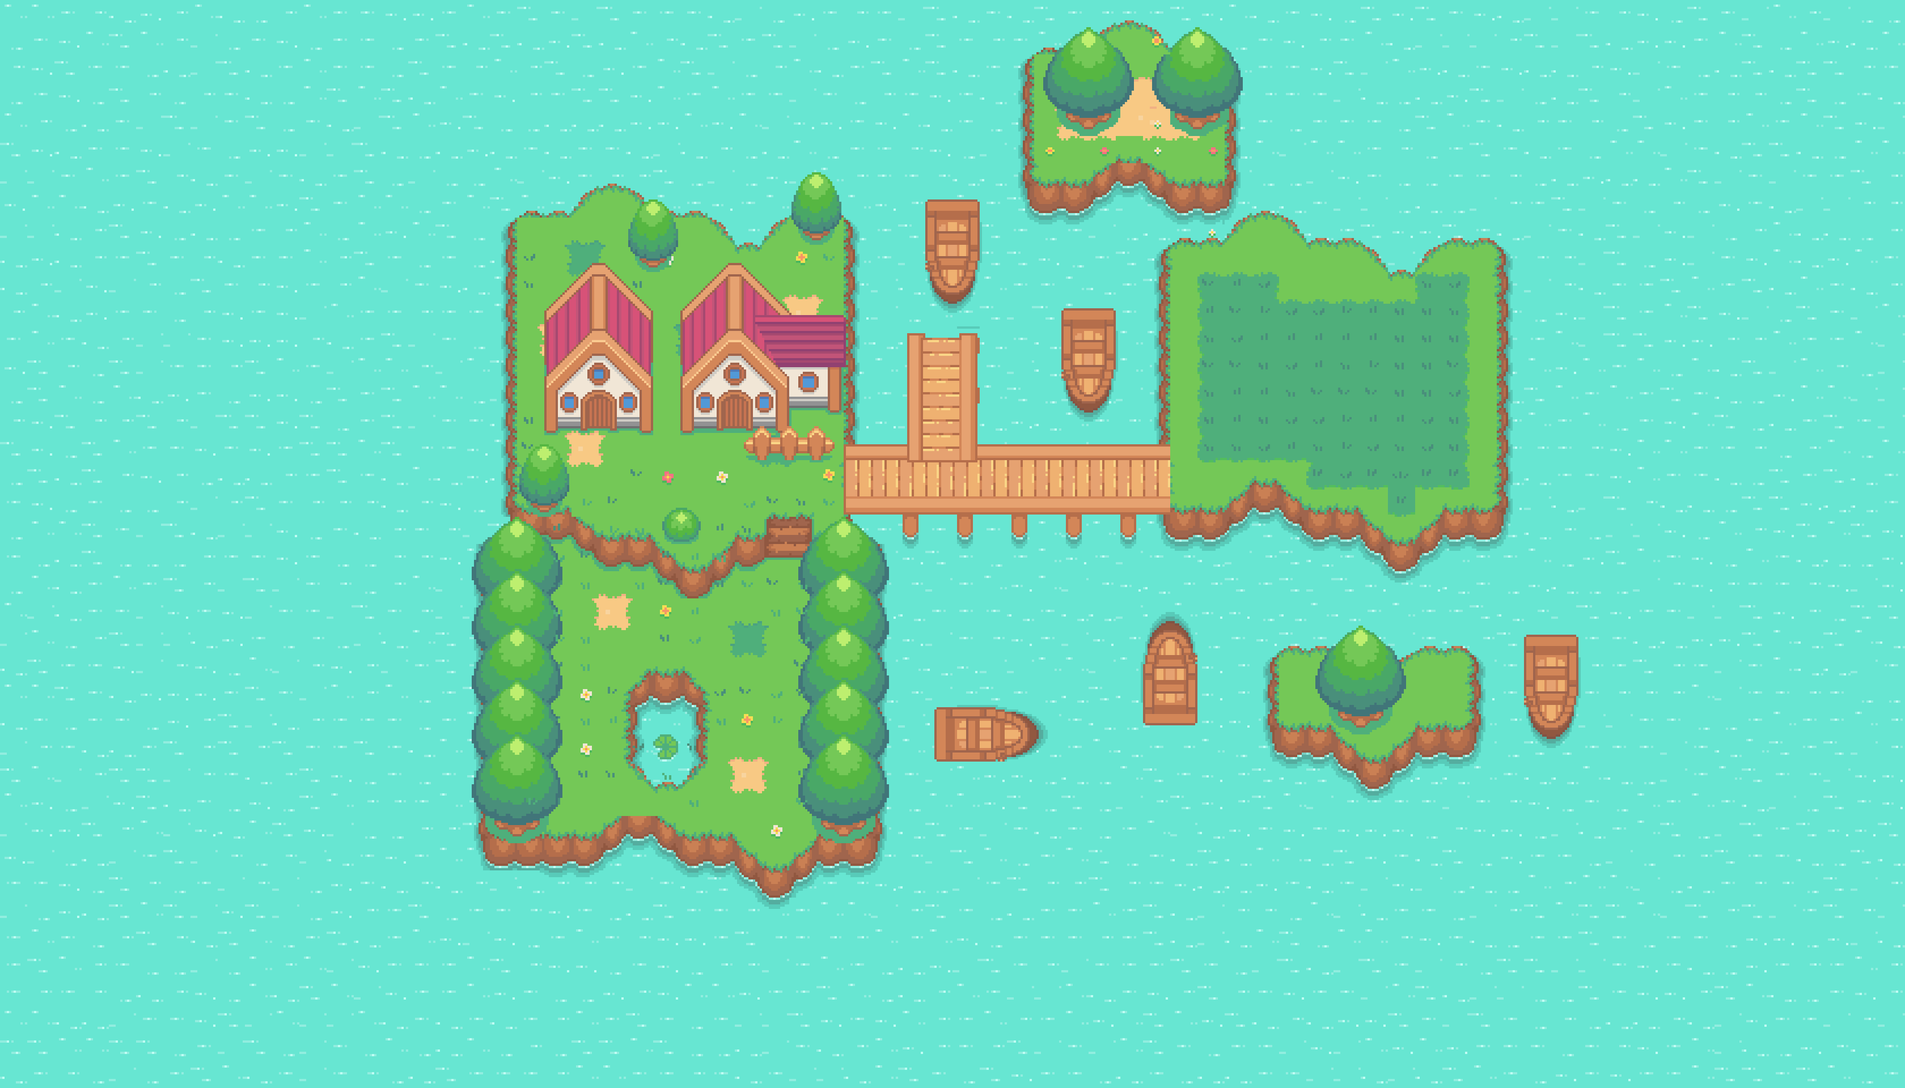
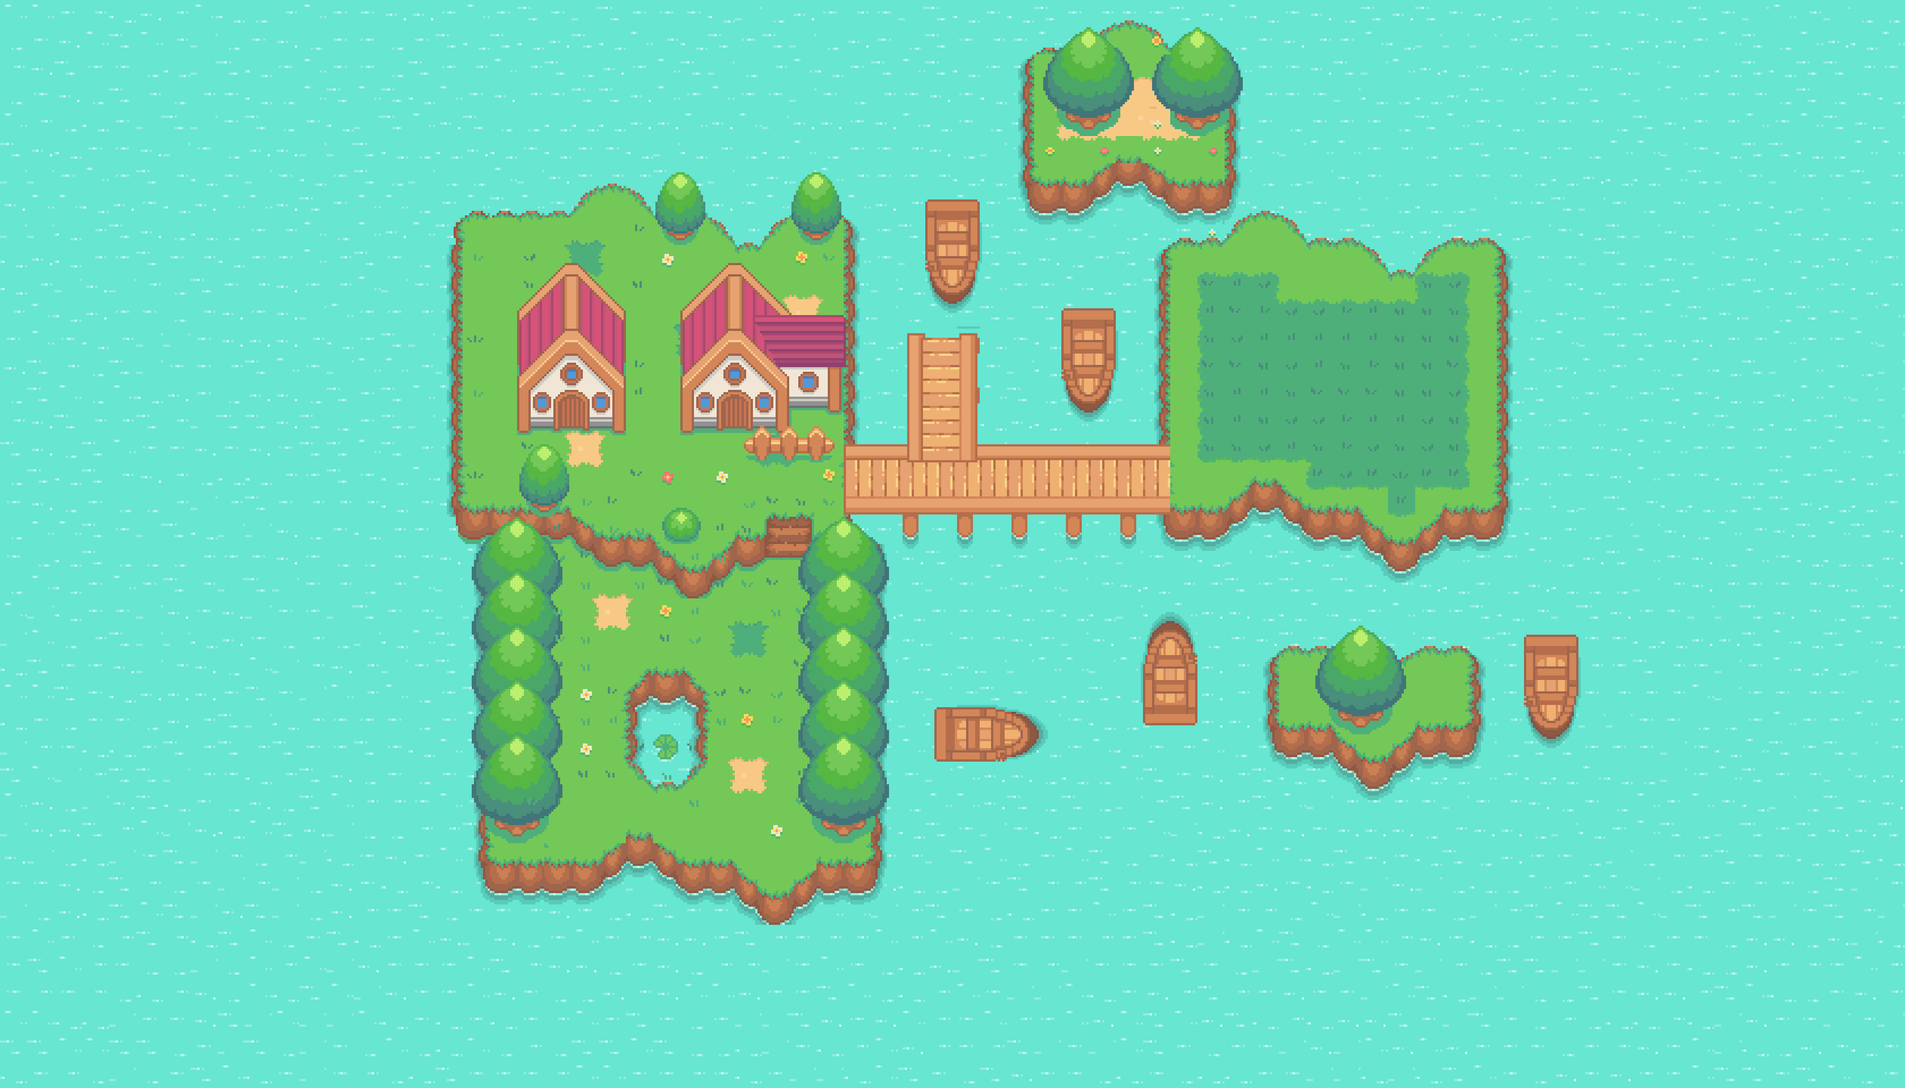
entrega3

Changed region(s): [[0.2188, 0.1562, 0.375, 0.5], [0.25, 0.75, 0.4688, 0.8438]]

diff --git a/data/collision.js b/data/collision.js
@@ -4,20 +4,20 @@ const collisions = [0, 0, 0, 0, 0, 0, 0, 0, 0, 0, 0, 0, 0, 0, 0, 0, 0, 0, 0, 0, 
     0, 0, 0, 0, 0, 0, 0, 0, 0, 0, 0, 0, 0, 0, 0, 0, 0, 0, 0, 0, 0, 0, 0, 0, 0, 0, 0, 0, 0, 0, 0, 0, 0, 0, 0, 0, 0, 1025, 1025, 1025, 1025, 1025, 1025, 1025, 1025, 1025, 0, 0, 0, 0, 0, 0, 0, 0, 0, 0, 0, 0, 0, 0, 0, 0, 0, 0, 0, 0, 0, 0, 0, 0,
     0, 0, 0, 0, 0, 0, 0, 0, 0, 0, 0, 0, 0, 0, 0, 0, 0, 0, 0, 0, 0, 0, 0, 0, 0, 0, 0, 0, 0, 0, 0, 0, 0, 0, 0, 0, 0, 1025, 0, 1025, 1025, 0, 0, 1025, 1025, 1025, 0, 0, 0, 0, 0, 0, 0, 0, 0, 0, 0, 0, 0, 0, 0, 0, 0, 0, 0, 0, 0, 0, 0, 0,
     0, 0, 0, 0, 0, 0, 0, 0, 0, 0, 0, 0, 0, 0, 0, 0, 0, 0, 0, 0, 0, 0, 0, 0, 0, 0, 0, 0, 0, 0, 0, 0, 0, 0, 0, 0, 0, 1025, 0, 0, 0, 0, 0, 0, 0, 1025, 0, 0, 0, 0, 0, 0, 0, 0, 0, 0, 0, 0, 0, 0, 0, 0, 0, 0, 0, 0, 0, 0, 0, 0,
-    0, 0, 0, 0, 0, 0, 0, 0, 0, 0, 0, 0, 0, 0, 0, 0, 0, 0, 0, 0, 0, 1025, 1025, 0, 0, 0, 0, 0, 0, 0, 0, 0, 0, 0, 0, 0, 0, 1025, 0, 0, 1025, 1025, 1025, 0, 0, 1025, 0, 0, 0, 0, 0, 0, 0, 0, 0, 0, 0, 0, 0, 0, 0, 0, 0, 0, 0, 0, 0, 0, 0, 0,
-    0, 0, 0, 0, 0, 0, 0, 0, 0, 0, 0, 0, 0, 0, 0, 0, 0, 0, 1025, 1025, 1025, 1025, 0, 1025, 1025, 1025, 0, 0, 1025, 0, 0, 0, 0, 0, 1025, 1025, 0, 1025, 1025, 1025, 1025, 0, 1025, 1025, 1025, 1025, 1025, 0, 0, 0, 0, 0, 0, 0, 0, 0, 0, 0, 0, 0, 0, 0, 0, 0, 0, 0, 0, 0, 0, 0,
-    0, 0, 0, 0, 0, 0, 0, 0, 0, 0, 0, 0, 0, 0, 0, 0, 0, 0, 1025, 0, 0, 0, 0, 0, 0, 0, 1025, 1025, 0, 1025, 1025, 1025, 0, 0, 1025, 1025, 0, 0, 0, 0, 0, 0, 0, 1025, 1025, 1025, 0, 1025, 1025, 1025, 0, 0, 0, 1025, 1025, 0, 0, 0, 0, 0, 0, 0, 0, 0, 0, 0, 0, 0, 0, 0,
-    0, 0, 0, 0, 0, 0, 0, 0, 0, 0, 0, 0, 0, 0, 0, 0, 0, 0, 1025, 0, 0, 0, 0, 1025, 1025, 0, 0, 0, 0, 0, 0, 1025, 0, 0, 1025, 1025, 0, 0, 0, 0, 0, 0, 1025, 0, 0, 0, 0, 0, 0, 0, 1025, 1025, 1025, 0, 0, 1025, 0, 0, 0, 0, 0, 0, 0, 0, 0, 0, 0, 0, 0, 0,
-    0, 0, 0, 0, 0, 0, 0, 0, 0, 0, 0, 0, 0, 0, 0, 0, 0, 0, 1025, 0, 0, 0, 0, 0, 0, 0, 0, 0, 0, 0, 0, 1025, 0, 0, 1025, 1025, 0, 0, 0, 0, 0, 0, 1025, 0, 0, 0, 0, 0, 0, 0, 0, 0, 0, 0, 0, 1025, 0, 0, 0, 0, 0, 0, 0, 0, 0, 0, 0, 0, 0, 0,
-    0, 0, 0, 0, 0, 0, 0, 0, 0, 0, 0, 0, 0, 0, 0, 0, 0, 0, 1025, 0, 1025, 1025, 1025, 1025, 0, 1025, 1025, 1025, 1025, 0, 0, 1025, 1025, 1025, 1025, 1025, 1025, 0, 0, 1025, 1025, 0, 1025, 0, 0, 0, 0, 0, 0, 0, 0, 0, 0, 0, 0, 1025, 0, 0, 0, 0, 0, 0, 0, 0, 0, 0, 0, 0, 0, 0,
-    0, 0, 0, 0, 0, 0, 0, 0, 0, 0, 0, 0, 0, 0, 0, 0, 0, 0, 1025, 0, 1025, 0, 0, 1025, 0, 1025, 0, 0, 1025, 1025, 1025, 1025, 1025, 0, 0, 0, 1025, 0, 0, 1025, 1025, 0, 1025, 0, 0, 0, 0, 0, 0, 0, 0, 0, 0, 0, 0, 1025, 0, 0, 0, 0, 0, 0, 0, 0, 0, 0, 0, 0, 0, 0,
-    0, 0, 0, 0, 0, 0, 0, 0, 0, 0, 0, 0, 0, 0, 0, 0, 0, 0, 1025, 0, 1025, 0, 0, 1025, 0, 1025, 0, 0, 0, 0, 1025, 1025, 1025, 0, 0, 0, 1025, 0, 0, 1025, 1025, 0, 1025, 0, 0, 0, 0, 0, 0, 0, 0, 0, 0, 0, 0, 1025, 0, 0, 0, 0, 0, 0, 0, 0, 0, 0, 0, 0, 0, 0,
-    0, 0, 0, 0, 0, 0, 0, 0, 0, 0, 0, 0, 0, 0, 0, 0, 0, 0, 1025, 0, 1025, 0, 0, 1025, 0, 1025, 0, 0, 1025, 1025, 1025, 1025, 1025, 0, 0, 0, 1025, 0, 0, 1025, 1025, 0, 1025, 0, 0, 0, 0, 0, 0, 0, 0, 0, 0, 0, 0, 1025, 0, 0, 0, 0, 0, 0, 0, 0, 0, 0, 0, 0, 0, 0,
-    0, 0, 0, 0, 0, 0, 0, 0, 0, 0, 0, 0, 0, 0, 0, 0, 0, 0, 1025, 0, 1025, 1025, 1025, 1025, 0, 1025, 1025, 1025, 1025, 0, 0, 1025, 1025, 0, 0, 0, 1025, 0, 0, 0, 0, 0, 1025, 0, 0, 0, 0, 0, 0, 0, 0, 0, 0, 0, 0, 1025, 0, 0, 0, 0, 0, 0, 0, 0, 0, 0, 0, 0, 0, 0,
-    0, 0, 0, 0, 0, 0, 0, 0, 0, 0, 0, 0, 0, 0, 0, 0, 0, 0, 1025, 0, 0, 0, 0, 0, 0, 0, 0, 1025, 1025, 1025, 1025, 1025, 1025, 0, 0, 0, 1025, 1025, 1025, 1025, 1025, 1025, 1025, 0, 0, 0, 0, 0, 0, 0, 0, 0, 0, 0, 0, 1025, 0, 0, 0, 0, 0, 0, 0, 0, 0, 0, 0, 0, 0, 0,
-    0, 0, 0, 0, 0, 0, 0, 0, 0, 0, 0, 0, 0, 0, 0, 0, 0, 0, 1025, 0, 0, 0, 0, 0, 0, 0, 0, 0, 0, 0, 0, 0, 0, 0, 0, 0, 0, 0, 0, 0, 0, 0, 0, 0, 0, 0, 0, 0, 0, 0, 0, 0, 0, 0, 0, 1025, 0, 0, 0, 0, 0, 0, 0, 0, 0, 0, 0, 0, 0, 0,
-    0, 0, 0, 0, 0, 0, 0, 0, 0, 0, 0, 0, 0, 0, 0, 0, 0, 0, 1025, 1025, 1025, 0, 0, 0, 0, 0, 0, 0, 0, 0, 0, 0, 0, 0, 0, 0, 0, 0, 0, 0, 0, 0, 0, 0, 0, 1025, 1025, 1025, 0, 0, 0, 0, 0, 0, 0, 1025, 0, 0, 0, 0, 0, 0, 0, 0, 0, 0, 0, 0, 0, 0,
-    0, 0, 0, 0, 0, 0, 0, 0, 0, 0, 0, 0, 0, 0, 0, 0, 0, 0, 0, 1025, 1025, 1025, 0, 0, 1025, 1025, 0, 0, 0, 0, 0, 1025, 1025, 1025, 1025, 1025, 1025, 1025, 1025, 1025, 1025, 1025, 1025, 1025, 1025, 0, 0, 0, 1025, 1025, 1025, 0, 1025, 1025, 1025, 1025, 0, 0, 0, 0, 0, 0, 0, 0, 0, 0, 0, 0, 0, 0,
+    0, 0, 0, 0, 0, 0, 0, 0, 0, 0, 0, 0, 0, 0, 0, 0, 0, 0, 0, 0, 0, 1025, 1025, 1025, 0, 0, 0, 0, 0, 0, 0, 0, 0, 0, 0, 0, 0, 1025, 0, 0, 1025, 1025, 1025, 0, 0, 1025, 0, 0, 0, 0, 0, 0, 0, 0, 0, 0, 0, 0, 0, 0, 0, 0, 0, 0, 0, 0, 0, 0, 0, 0,
+    0, 0, 0, 0, 0, 0, 0, 0, 0, 0, 0, 0, 0, 0, 0, 0, 0, 1025, 1025, 1025, 1025, 0, 0, 0, 1025, 1025, 1025, 0, 1025, 1025, 1025, 0, 0, 0, 1025, 1025, 0, 1025, 1025, 1025, 1025, 0, 1025, 1025, 1025, 1025, 1025, 0, 0, 0, 0, 0, 0, 0, 0, 0, 0, 0, 0, 0, 0, 0, 0, 0, 0, 0, 0, 0, 0, 0,
+    0, 0, 0, 0, 0, 0, 0, 0, 0, 0, 0, 0, 0, 0, 0, 0, 1025, 0, 0, 0, 0, 0, 0, 0, 0, 0, 0, 1025, 0, 0, 0, 1025, 0, 0, 1025, 1025, 0, 0, 0, 0, 0, 0, 0, 1025, 1025, 1025, 0, 1025, 1025, 1025, 0, 0, 0, 1025, 1025, 0, 0, 0, 0, 0, 0, 0, 0, 0, 0, 0, 0, 0, 0, 0,
+    0, 0, 0, 0, 0, 0, 0, 0, 0, 0, 0, 0, 0, 0, 0, 0, 1025, 0, 0, 0, 0, 0, 0, 0, 0, 0, 0, 0, 0, 0, 0, 1025, 0, 0, 1025, 1025, 0, 0, 0, 0, 0, 0, 1025, 0, 0, 0, 0, 0, 0, 0, 1025, 1025, 1025, 0, 0, 1025, 0, 0, 0, 0, 0, 0, 0, 0, 0, 0, 0, 0, 0, 0,
+    0, 0, 0, 0, 0, 0, 0, 0, 0, 0, 0, 0, 0, 0, 0, 0, 1025, 0, 0, 0, 0, 0, 0, 0, 0, 0, 0, 0, 0, 0, 0, 1025, 0, 0, 1025, 1025, 0, 0, 0, 0, 0, 0, 1025, 0, 0, 0, 0, 0, 0, 0, 0, 0, 0, 0, 0, 1025, 0, 0, 0, 0, 0, 0, 0, 0, 0, 0, 0, 0, 0, 0,
+    0, 0, 0, 0, 0, 0, 0, 0, 0, 0, 0, 0, 0, 0, 0, 0, 1025, 0, 0, 1025, 1025, 1025, 1025, 0, 0, 1025, 1025, 1025, 1025, 0, 0, 1025, 1025, 1025, 1025, 1025, 1025, 0, 0, 1025, 1025, 0, 1025, 0, 0, 0, 0, 0, 0, 0, 0, 0, 0, 0, 0, 1025, 0, 0, 0, 0, 0, 0, 0, 0, 0, 0, 0, 0, 0, 0,
+    0, 0, 0, 0, 0, 0, 0, 0, 0, 0, 0, 0, 0, 0, 0, 0, 1025, 0, 0, 1025, 0, 0, 1025, 0, 0, 1025, 0, 0, 1025, 1025, 1025, 1025, 1025, 0, 0, 0, 1025, 0, 0, 1025, 1025, 0, 1025, 0, 0, 0, 0, 0, 0, 0, 0, 0, 0, 0, 0, 1025, 0, 0, 0, 0, 0, 0, 0, 0, 0, 0, 0, 0, 0, 0,
+    0, 0, 0, 0, 0, 0, 0, 0, 0, 0, 0, 0, 0, 0, 0, 0, 1025, 0, 0, 1025, 0, 0, 1025, 0, 0, 1025, 0, 0, 0, 0, 1025, 1025, 1025, 0, 0, 0, 1025, 0, 0, 1025, 1025, 0, 1025, 0, 0, 0, 0, 0, 0, 0, 0, 0, 0, 0, 0, 1025, 0, 0, 0, 0, 0, 0, 0, 0, 0, 0, 0, 0, 0, 0,
+    0, 0, 0, 0, 0, 0, 0, 0, 0, 0, 0, 0, 0, 0, 0, 0, 1025, 0, 0, 1025, 0, 0, 1025, 0, 0, 1025, 0, 0, 1025, 1025, 1025, 1025, 1025, 0, 0, 0, 1025, 0, 0, 1025, 1025, 0, 1025, 0, 0, 0, 0, 0, 0, 0, 0, 0, 0, 0, 0, 1025, 0, 0, 0, 0, 0, 0, 0, 0, 0, 0, 0, 0, 0, 0,
+    0, 0, 0, 0, 0, 0, 0, 0, 0, 0, 0, 0, 0, 0, 0, 0, 1025, 0, 0, 1025, 1025, 1025, 1025, 0, 0, 1025, 1025, 1025, 1025, 0, 0, 1025, 1025, 0, 0, 0, 1025, 0, 0, 0, 0, 0, 1025, 0, 0, 0, 0, 0, 0, 0, 0, 0, 0, 0, 0, 1025, 0, 0, 0, 0, 0, 0, 0, 0, 0, 0, 0, 0, 0, 0,
+    0, 0, 0, 0, 0, 0, 0, 0, 0, 0, 0, 0, 0, 0, 0, 0, 1025, 0, 0, 0, 0, 0, 0, 0, 0, 0, 0, 1025, 1025, 1025, 1025, 1025, 1025, 0, 0, 0, 1025, 1025, 1025, 1025, 1025, 1025, 1025, 0, 0, 0, 0, 0, 0, 0, 0, 0, 0, 0, 0, 1025, 0, 0, 0, 0, 0, 0, 0, 0, 0, 0, 0, 0, 0, 0,
+    0, 0, 0, 0, 0, 0, 0, 0, 0, 0, 0, 0, 0, 0, 0, 0, 1025, 0, 0, 0, 0, 0, 0, 0, 0, 0, 0, 0, 0, 0, 0, 0, 0, 0, 0, 0, 0, 0, 0, 0, 0, 0, 0, 0, 0, 0, 0, 0, 0, 0, 0, 0, 0, 0, 0, 1025, 0, 0, 0, 0, 0, 0, 0, 0, 0, 0, 0, 0, 0, 0,
+    0, 0, 0, 0, 0, 0, 0, 0, 0, 0, 0, 0, 0, 0, 0, 0, 1025, 0, 0, 1025, 1025, 0, 0, 0, 0, 0, 0, 0, 0, 0, 0, 0, 0, 0, 0, 0, 0, 0, 0, 0, 0, 0, 0, 0, 0, 1025, 1025, 1025, 0, 0, 0, 0, 0, 0, 0, 1025, 0, 0, 0, 0, 0, 0, 0, 0, 0, 0, 0, 0, 0, 0,
+    0, 0, 0, 0, 0, 0, 0, 0, 0, 0, 0, 0, 0, 0, 0, 0, 0, 1025, 1025, 1025, 1025, 1025, 0, 0, 1025, 1025, 0, 0, 0, 0, 0, 1025, 1025, 1025, 1025, 1025, 1025, 1025, 1025, 1025, 1025, 1025, 1025, 1025, 1025, 0, 0, 0, 1025, 1025, 1025, 0, 1025, 1025, 1025, 1025, 0, 0, 0, 0, 0, 0, 0, 0, 0, 0, 0, 0, 0, 0,
     0, 0, 0, 0, 0, 0, 0, 0, 0, 0, 0, 0, 0, 0, 0, 0, 0, 0, 0, 1025, 0, 0, 1025, 1025, 1025, 0, 1025, 1025, 0, 0, 1025, 0, 0, 0, 0, 0, 0, 0, 0, 0, 0, 0, 0, 0, 0, 0, 0, 0, 0, 0, 0, 1025, 0, 0, 0, 0, 0, 0, 0, 0, 0, 0, 0, 0, 0, 0, 0, 0, 0, 0,
     0, 0, 0, 0, 0, 0, 0, 0, 0, 0, 0, 0, 0, 0, 0, 0, 0, 0, 0, 1025, 0, 0, 0, 0, 0, 1025, 0, 0, 0, 0, 1025, 0, 0, 0, 0, 0, 0, 0, 0, 0, 0, 0, 0, 0, 0, 0, 0, 0, 0, 0, 0, 0, 0, 0, 0, 0, 0, 0, 0, 0, 0, 0, 0, 0, 0, 0, 0, 0, 0, 0,
     0, 0, 0, 0, 0, 0, 0, 0, 0, 0, 0, 0, 0, 0, 0, 0, 0, 0, 0, 1025, 0, 0, 0, 0, 0, 0, 0, 0, 0, 0, 1025, 0, 0, 0, 0, 0, 0, 0, 0, 0, 0, 0, 0, 0, 0, 0, 0, 0, 0, 0, 0, 0, 0, 0, 0, 0, 0, 0, 0, 0, 0, 0, 0, 0, 0, 0, 0, 0, 0, 0,
@@ -27,11 +27,11 @@ const collisions = [0, 0, 0, 0, 0, 0, 0, 0, 0, 0, 0, 0, 0, 0, 0, 0, 0, 0, 0, 0, 
     0, 0, 0, 0, 0, 0, 0, 0, 0, 0, 0, 0, 0, 0, 0, 0, 0, 0, 0, 1025, 0, 0, 0, 1025, 0, 1025, 0, 0, 0, 0, 1025, 0, 0, 0, 1025, 1025, 1025, 1025, 0, 0, 0, 0, 1025, 1025, 0, 0, 1025, 0, 0, 1025, 1025, 0, 0, 0, 1025, 0, 1025, 1025, 0, 0, 0, 0, 0, 0, 0, 0, 0, 0, 0, 0,
     0, 0, 0, 0, 0, 0, 0, 0, 0, 0, 0, 0, 0, 0, 0, 0, 0, 0, 0, 1025, 0, 0, 0, 1025, 0, 1025, 0, 0, 0, 0, 1025, 0, 0, 0, 1025, 1025, 1025, 1025, 0, 0, 0, 0, 0, 0, 0, 0, 0, 1025, 1025, 1025, 0, 1025, 1025, 1025, 1025, 0, 0, 0, 0, 0, 0, 0, 0, 0, 0, 0, 0, 0, 0, 0,
     0, 0, 0, 0, 0, 0, 0, 0, 0, 0, 0, 0, 0, 0, 0, 0, 0, 0, 0, 1025, 0, 0, 0, 1025, 1025, 1025, 0, 0, 0, 0, 1025, 0, 0, 0, 0, 0, 0, 0, 0, 0, 0, 0, 0, 0, 0, 0, 0, 0, 0, 0, 1025, 0, 0, 0, 0, 0, 0, 0, 0, 0, 0, 0, 0, 0, 0, 0, 0, 0, 0, 0,
-    0, 0, 0, 0, 0, 0, 0, 0, 0, 0, 0, 0, 0, 0, 0, 0, 0, 0, 0, 1025, 0, 0, 0, 0, 0, 0, 0, 0, 0, 0, 1025, 0, 0, 0, 0, 0, 0, 0, 0, 0, 0, 0, 0, 0, 0, 0, 0, 0, 0, 0, 0, 0, 0, 0, 0, 0, 0, 0, 0, 0, 0, 0, 0, 0, 0, 0, 0, 0, 0, 0,
-    0, 0, 0, 0, 0, 0, 0, 0, 0, 0, 0, 0, 0, 0, 0, 0, 0, 0, 0, 1025, 0, 0, 1025, 1025, 1025, 0, 0, 0, 0, 0, 1025, 0, 0, 0, 0, 0, 0, 0, 0, 0, 0, 0, 0, 0, 0, 0, 0, 0, 0, 0, 0, 0, 0, 0, 0, 0, 0, 0, 0, 0, 0, 0, 0, 0, 0, 0, 0, 0, 0, 0,
-    0, 0, 0, 0, 0, 0, 0, 0, 0, 0, 0, 0, 0, 0, 0, 0, 0, 0, 0, 1025, 1025, 1025, 0, 0, 0, 1025, 1025, 1025, 0, 1025, 1025, 0, 0, 0, 0, 0, 0, 0, 0, 0, 0, 0, 0, 0, 0, 0, 0, 0, 0, 0, 0, 0, 0, 0, 0, 0, 0, 0, 0, 0, 0, 0, 0, 0, 0, 0, 0, 0, 0, 0,
-    0, 0, 0, 0, 0, 0, 0, 0, 0, 0, 0, 0, 0, 0, 0, 0, 0, 0, 0, 0, 0, 0, 0, 0, 0, 0, 0, 0, 1025, 0, 0, 0, 0, 0, 0, 0, 0, 0, 0, 0, 0, 0, 0, 0, 0, 0, 0, 0, 0, 0, 0, 0, 0, 0, 0, 0, 0, 0, 0, 0, 0, 0, 0, 0, 0, 0, 0, 0, 0, 0,
-    0, 0, 0, 0, 0, 0, 0, 0, 0, 0, 0, 0, 0, 0, 0, 0, 0, 0, 0, 0, 0, 0, 0, 0, 0, 0, 0, 0, 0, 0, 0, 0, 0, 0, 0, 0, 0, 0, 0, 0, 0, 0, 0, 0, 0, 0, 0, 0, 0, 0, 0, 0, 0, 0, 0, 0, 0, 0, 0, 0, 0, 0, 0, 0, 0, 0, 0, 0, 0, 0,
+    0, 0, 0, 0, 0, 0, 0, 0, 0, 0, 0, 0, 0, 0, 0, 0, 0, 0, 1025, 1025, 0, 0, 0, 0, 0, 0, 0, 0, 0, 0, 1025, 1025, 0, 0, 0, 0, 0, 0, 0, 0, 0, 0, 0, 0, 0, 0, 0, 0, 0, 0, 0, 0, 0, 0, 0, 0, 0, 0, 0, 0, 0, 0, 0, 0, 0, 0, 0, 0, 0, 0,
+    0, 0, 0, 0, 0, 0, 0, 0, 0, 0, 0, 0, 0, 0, 0, 0, 0, 1025, 0, 0, 0, 0, 0, 0, 0, 0, 0, 0, 0, 0, 0, 0, 1025, 0, 0, 0, 0, 0, 0, 0, 0, 0, 0, 0, 0, 0, 0, 0, 0, 0, 0, 0, 0, 0, 0, 0, 0, 0, 0, 0, 0, 0, 0, 0, 0, 0, 0, 0, 0, 0,
+    0, 0, 0, 0, 0, 0, 0, 0, 0, 0, 0, 0, 0, 0, 0, 0, 0, 1025, 0, 0, 0, 0, 1025, 1025, 1025, 0, 0, 0, 0, 0, 0, 0, 1025, 0, 0, 0, 0, 0, 0, 0, 0, 0, 0, 0, 0, 0, 0, 0, 0, 0, 0, 0, 0, 0, 0, 0, 0, 0, 0, 0, 0, 0, 0, 0, 0, 0, 0, 0, 0, 0,
+    0, 0, 0, 0, 0, 0, 0, 0, 0, 0, 0, 0, 0, 0, 0, 0, 0, 0, 1025, 1025, 1025, 1025, 0, 0, 0, 1025, 1025, 1025, 0, 1025, 1025, 1025, 1025, 0, 0, 0, 0, 0, 0, 0, 0, 0, 0, 0, 0, 0, 0, 0, 0, 0, 0, 0, 0, 0, 0, 0, 0, 0, 0, 0, 0, 0, 0, 0, 0, 0, 0, 0, 0, 0,
+    0, 0, 0, 0, 0, 0, 0, 0, 0, 0, 0, 0, 0, 0, 0, 0, 0, 0, 0, 0, 0, 0, 0, 0, 0, 0, 0, 1025, 1025, 1025, 0, 0, 0, 0, 0, 0, 0, 0, 0, 0, 0, 0, 0, 0, 0, 0, 0, 0, 0, 0, 0, 0, 0, 0, 0, 0, 0, 0, 0, 0, 0, 0, 0, 0, 0, 0, 0, 0, 0, 0,
     0, 0, 0, 0, 0, 0, 0, 0, 0, 0, 0, 0, 0, 0, 0, 0, 0, 0, 0, 0, 0, 0, 0, 0, 0, 0, 0, 0, 0, 0, 0, 0, 0, 0, 0, 0, 0, 0, 0, 0, 0, 0, 0, 0, 0, 0, 0, 0, 0, 0, 0, 0, 0, 0, 0, 0, 0, 0, 0, 0, 0, 0, 0, 0, 0, 0, 0, 0, 0, 0,
     0, 0, 0, 0, 0, 0, 0, 0, 0, 0, 0, 0, 0, 0, 0, 0, 0, 0, 0, 0, 0, 0, 0, 0, 0, 0, 0, 0, 0, 0, 0, 0, 0, 0, 0, 0, 0, 0, 0, 0, 0, 0, 0, 0, 0, 0, 0, 0, 0, 0, 0, 0, 0, 0, 0, 0, 0, 0, 0, 0, 0, 0, 0, 0, 0, 0, 0, 0, 0, 0,
     0, 0, 0, 0, 0, 0, 0, 0, 0, 0, 0, 0, 0, 0, 0, 0, 0, 0, 0, 0, 0, 0, 0, 0, 0, 0, 0, 0, 0, 0, 0, 0, 0, 0, 0, 0, 0, 0, 0, 0, 0, 0, 0, 0, 0, 0, 0, 0, 0, 0, 0, 0, 0, 0, 0, 0, 0, 0, 0, 0, 0, 0, 0, 0, 0, 0, 0, 0, 0, 0,

diff --git a/script.js b/script.js
@@ -3,7 +3,7 @@ const canvas = document.querySelector('canvas');
 const contexto = canvas.getContext('2d');
 
 canvas.width = 1024;
-canvas.height = 576;
+canvas.height = 595;
 
 const collisionMap = [];
 for (let i = 0; i < collisions.length; i += 70) {
@@ -12,23 +12,8 @@ for (let i = 0; i < collisions.length; i += 70) {
 const desplazamiento = {
     x: -600,
     y: -500
-} 
-
-class Limite {
-    static width = 48
-    static height = 48
-
-    constructor({ posicion }) {
-        this.posicion = posicion;
-        this.width = 48;
-        this.height = 48;
-    }
-
-    draw() {
-        contexto.fillStyle = 'red'
-        contexto.fillRect(this.posicion.x, this.posicion.y, this.width, this.height)
-    }
 }
+
 const limites = [];
 
 // for (let i = 0; i < collisionMap.length; i++) {
@@ -51,8 +36,8 @@ collisionMap.forEach((row, i) => {
         if (simbolo === 1025) {
             limites.push(new Limite({
                 posicion: {
-                    x: j * Limite.width,
-                    y: i * Limite.height,
+                    x: j * Limite.width + desplazamiento.x,
+                    y: i * Limite.height + desplazamiento.y,
                 }
             }))
         }
@@ -62,28 +47,53 @@ collisionMap.forEach((row, i) => {
 const image = new Image();
 image.src = './img/pokemon style game map.png'
 
-const playerImg = new Image();
-playerImg.src = './img/MaximoDown.png'
+const foregroundImage = new Image();
+foregroundImage.src = './img/foreground.png'
 
-class Sprite {
-    constructor({ posicion, velocidad, image }) {
-        this.posicion = posicion;
-        this.image = image;
-        // this.velocidad = velocidad
-    }
+const playerImgUp = new Image();
+playerImgUp.src = './img/MaximoUp.png'
 
-    draw() {
-        if (!this.image.complete) return;
-        contexto.drawImage(this.image, this.posicion.x, this.posicion.y);
+const playerImgDown = new Image();
+playerImgDown.src = './img/MaximoDown.png'
+
+const playerImgLeft = new Image();
+playerImgLeft.src = './img/MaximoLeft.png'
+
+const playerImgRigth = new Image();
+playerImgRigth.src = './img/MaximoRigth.png'
+
+
+const jugador = new Sprite({
+    posicion: {
+        x: canvas.width / 2 - 256 / 4 / 2,
+        y: canvas.height / 2 - 56 / 2,
+    },
+    image: playerImgDown,
+    frames: {
+        max: 4
+    },
+    sprites: {
+        arriba: playerImgUp,
+        abajo: playerImgDown,
+        izquierda: playerImgLeft,
+        derecha: playerImgRigth,
     }
-}
+})
 
 const fondo = new Sprite({
     posicion: {
-        x: -600,
-        y: -500
+        x: desplazamiento.x,
+        y: desplazamiento.y
     },
     image: image
+});
+
+const foreground = new Sprite({
+    posicion: {
+        x: desplazamiento.x,
+        y: desplazamiento.y
+    },
+    image: foregroundImage
 });
 
 const keys = {
@@ -103,39 +113,132 @@ const keys = {
 
 let ultimaKey = "";
 
+const simboloMovible = [fondo, ...limites, foreground]
+
+function colisionRectangular({ rectangulo1, rectangulo2 }) {
+    return (
+        rectangulo1.posicion.x + rectangulo1.width >= rectangulo2.posicion.x && rectangulo1.posicion.x <= rectangulo2.posicion.x + rectangulo2.width && rectangulo1.posicion.y <= rectangulo2.posicion.y + rectangulo2.height && rectangulo1.posicion.y + rectangulo1.height >= rectangulo2.posicion.y
+    )
+}
+
 function animate() {
     window.requestAnimationFrame(animate);
-    // contexto.clearRect(0, 0, canvas.width, canvas.height);
     fondo.draw();
-
-
     limites.forEach(limite => {
-        limite.draw();
+        limite.draw()
     })
+    jugador.draw();
+    foreground.draw()
 
-    contexto.drawImage(
-        playerImg,
-        0,
-        0,
-        playerImg.width / 4,
-        playerImg.height,
-        canvas.width / 2 - playerImg.width / 3,
-        canvas.height / 2 - playerImg.height / 2,
-        playerImg.width / 4,
-        playerImg.height
-    );
+    let moving = true;
+    jugador.moving = false
+    if (keys.ArrowUp.presionada && ultimaKey === "ArrowUp") {
+        jugador.moving = true
+        jugador.image = jugador.sprites.arriba
 
-    if (keys.ArrowUp.presionada && ultimaKey == "ArrowUp") {
-        fondo.posicion.y = fondo.posicion.y + 3
+        for (let i = 0; i < limites.length; i++) {
+            const limite = limites[i];
+            if (
+                colisionRectangular({
+                    rectangulo1: jugador,
+                    rectangulo2: {
+                        ...limite,
+                        posicion: {
+                            x: limite.posicion.x,
+                            y: limite.posicion.y + 3
+                        }
+                    }
+                })
+            ) {
+                moving = false;
+                break;
+            }
+        }
+        if (moving) {
+            simboloMovible.forEach(Movibles => {
+                Movibles.posicion.y += 3
+            })
+        }
+
+
     }
     else if (keys.ArrowDown.presionada && ultimaKey == "ArrowDown") {
-        fondo.posicion.y = fondo.posicion.y - 3
+        jugador.moving = true
+        jugador.image = jugador.sprites.abajo
+        for (let i = 0; i < limites.length; i++) {
+            const limite = limites[i];
+            if (
+                colisionRectangular({
+                    rectangulo1: jugador,
+                    rectangulo2: {
+                        ...limite,
+                        posicion: {
+                            x: limite.posicion.x,
+                            y: limite.posicion.y - 3
+                        }
+                    }
+                })
+            ) {
+                moving = false;
+                break;
+            }
+        }
+        if (moving)
+            simboloMovible.forEach(Movibles => {
+                Movibles.posicion.y -= 3
+            })
     }
     else if (keys.ArrowLeft.presionada && ultimaKey == "ArrowLeft") {
-        fondo.posicion.x = fondo.posicion.x + 3
+        jugador.moving = true
+        jugador.image = jugador.sprites.izquierda
+        for (let i = 0; i < limites.length; i++) {
+            const limite = limites[i];
+            if (
+                colisionRectangular({
+                    rectangulo1: jugador,
+                    rectangulo2: {
+                        ...limite,
+                        posicion: {
+                            x: limite.posicion.x + 3,
+                            y: limite.posicion.y
+                        }
+                    }
+                })
+            ) {
+                moving = false;
+                break;
+            }
+        }
+        if (moving)
+            simboloMovible.forEach(Movibles => {
+                Movibles.posicion.x += 3
+            })
     }
     else if (keys.ArrowRight.presionada && ultimaKey == "ArrowRight") {
-        fondo.posicion.x = fondo.posicion.x - 3
+        jugador.moving = true
+        jugador.image = jugador.sprites.derecha
+        for (let i = 0; i < limites.length; i++) {
+            const limite = limites[i];
+            if (
+                colisionRectangular({
+                    rectangulo1: jugador,
+                    rectangulo2: {
+                        ...limite,
+                        posicion: {
+                            x: limite.posicion.x - 3,
+                            y: limite.posicion.y
+                        }
+                    }
+                })
+            ) {
+                moving = false;
+                break;
+            }
+        }
+        if (moving)
+            simboloMovible.forEach(Movibles => {
+                Movibles.posicion.x -= 3
+            })
     }
 }
 

diff --git a/classes.js b/classes.js
@@ -1,0 +1,55 @@
+class Sprite {
+    constructor({ posicion, velocidad, image, frames = { max: 1 }, sprites }) {
+        this.posicion = posicion;
+        this.image = image;
+        this.frames = { ...frames, value: 0, elapsed: 0 };
+
+        this.image.onload = () => {
+            this.width = this.image.width / this.frames.max
+            this.height = this.image.height
+        }
+        this.moving = false;
+        this.sprites = sprites
+    }
+
+    draw() {
+        contexto.drawImage(
+            this.image,
+            this.frames.value * this.width,
+            0,
+            this.image.width / this.frames.max,
+            this.image.height,
+            this.posicion.x,
+            this.posicion.y,
+            this.image.width / this.frames.max,
+            this.image.height
+        )
+
+        if (!this.moving) return
+
+        if (this.frames.max > 1) {
+            this.frames.elapsed++
+        }
+
+        if (this.frames.elapsed % 10 === 0) {
+            if (this.frames.value < this.frames.max - 1) this.frames.value++
+            else this.frames.value = 0
+        }
+    }
+}
+
+class Limite {
+    static width = 48
+    static height = 48
+
+    constructor({ posicion }) {
+        this.posicion = posicion;
+        this.width = 48;
+        this.height = 48;
+    }
+
+    draw() {
+        contexto.fillStyle = 'rgba(255, 0, 0, 0)'
+        contexto.fillRect(this.posicion.x, this.posicion.y, this.width, this.height)
+    }
+}

diff --git a/index.html b/index.html
@@ -10,5 +10,6 @@
     <canvas></canvas>
 </body>
 <script src="data/collision.js"></script>
+<script src="classes.js"></script>
 <script src="script.js"></script>
 </html>
